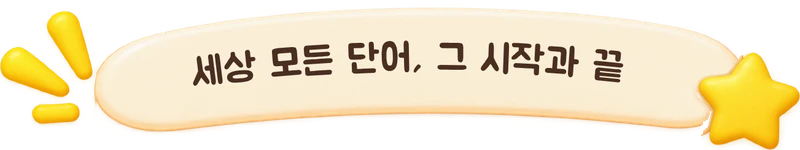
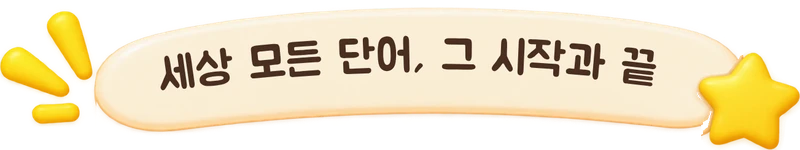
Korean home slogan: larger text
Claude-Session: https://claude.ai/code/session_0151HyQbunyEVHQk27fvCMAu

Changed region(s): [[0.1875, 0.24, 0.8438, 0.6133]]

diff --git a/index.html b/index.html
@@ -28,7 +28,7 @@ body{margin:0;font:14px system-ui,sans-serif}
 </style>
 <script>
 (function () {
-  var BUILD = '20261114220904';
+  var BUILD = '20261114222120';
   function check() {
     fetch('version.txt?t=' + Date.now(), { cache: 'no-store' }).then(function (r) { return r.ok ? r.text() : BUILD; }).then(function (v) {
       v = (v || '').trim();
@@ -393,7 +393,7 @@ p.res-tap{display:flex;align-items:center;justify-content:center;gap:4px;font-fa
 @media (prefers-reduced-motion: reduce){*{animation-duration:1ms!important;animation-iteration-count:1!important}}
 
 /* ===== 3D redesign (backup of the previous look: backup/game.template.pre-redesign.html, git branch backup-pre-redesign) ===== */
-#home{background:#8FD3FF url(img/bg.webp?v=20261114220904) center bottom/cover no-repeat;background-attachment:local}
+#home{background:#8FD3FF url(img/bg.webp?v=20261114222120) center bottom/cover no-repeat;background-attachment:local}
 /* glancing over the shoulder: the art looks right, flipped half the time to look left */
 .char.peek.pl img.cimg{scale:-1 1}
 /* never squeeze the art to its box (some hosts add img{max-width:100%}) */
@@ -402,7 +402,7 @@ p.res-tap{display:flex;align-items:center;justify-content:center;gap:4px;font-fa
 /* duo: both seen from behind, and the capybara's back art reads smaller than the red panda's */
 #game.duo .char.capy img.cimg{scale:1.04}
 #game.duo .char.capy.peek.pl img.cimg{scale:-1.04 1.04}
-.fghill{position:absolute;left:0;top:0;width:100%;height:100%;z-index:1;pointer-events:none;background:url(img/hillfg.webp?v=20261114220904) center bottom/100% auto no-repeat}
+.fghill{position:absolute;left:0;top:0;width:100%;height:100%;z-index:1;pointer-events:none;background:url(img/hillfg.webp?v=20261114222120) center bottom/100% auto no-repeat}
 #home>.home-top,#home>.title,#home>.field{position:relative;z-index:2}
 #home>.fghill{position:absolute;flex:none;z-index:1}
 /* the bottom of the picture melts into one grass colour, the same colour the phone paints below the page */
@@ -437,7 +437,7 @@ p.res-tap{display:flex;align-items:center;justify-content:center;gap:4px;font-fa
   #pcbg .cl::after{width:40%;height:120%;right:12%;bottom:25%}
   #pcbg .bk{position:absolute;width:var(--s);height:var(--s);margin:calc(var(--s) / -2) 0 0 calc(var(--s) / -2);opacity:var(--o);animation:pcbob var(--t) ease-in-out infinite alternate}
   #pcbg .bk em{position:absolute;inset:0;transform:rotate(var(--r))}
-  #pcbg .bk i{position:absolute;inset:0;background:url(img/block.webp?v=20261114220904) center/contain no-repeat}
+  #pcbg .bk i{position:absolute;inset:0;background:url(img/block.webp?v=20261114222120) center/contain no-repeat}
   /* the letter sits on the cube's front face (its centre is left of and below the picture's centre, and the face leans) */
   #pcbg .bk b{position:absolute;left:37.5%;top:57%;transform:translate(-50%,-50%) skewY(12deg);font:700 calc(var(--s) * .36)/1 'Fredoka','Jua',sans-serif;color:#7A5320}
   #pcbg .ground{position:absolute;left:0;right:0;bottom:0;height:22vh;background:linear-gradient(rgba(140,205,95,0),#8CCD5F 45%,#79BD4E)}
@@ -501,8 +501,8 @@ html.standalone .in-ctl{padding-bottom:10px}
 @media (prefers-reduced-motion:reduce){.in-logo,.in-tap,.in-ring{animation:none}}
 .logo-img{width:min(82vw,320px,calc((100dvh - 540px) * 1.3));min-width:190px;height:auto;filter:drop-shadow(0 6px 10px rgba(40,60,120,.25));animation:tileIn .6s cubic-bezier(.2,1.6,.4,1) both}
 /* the slogan: a picture of the arched banner (with its burst and star); the text stays for screen readers */
-.ribbon{display:block;margin:2px auto 0;width:min(272px,70vw);aspect-ratio:800/167;background:url(img/slogan_en.webp?v=20261114220904) center/contain no-repeat;font-size:0;color:transparent;border:0;padding:0;box-shadow:none;transform:none;white-space:nowrap}
-html[lang="ko"] .ribbon{background-image:url(img/slogan_ko.webp?v=20261114220904);aspect-ratio:800/150;width:min(262px,68vw)}
+.ribbon{display:block;margin:2px auto 0;width:min(272px,70vw);aspect-ratio:800/167;background:url(img/slogan_en.webp?v=20261114222120) center/contain no-repeat;font-size:0;color:transparent;border:0;padding:0;box-shadow:none;transform:none;white-space:nowrap}
+html[lang="ko"] .ribbon{background-image:url(img/slogan_ko.webp?v=20261114222120);aspect-ratio:800/150;width:min(262px,68vw)}
 .stage{--sh:min(215px,25dvh,calc((100vw - 8px) / 2.3));position:relative;z-index:0;flex:none;min-height:0;height:var(--sh);margin:-6px 0 -22px;align-items:flex-end;gap:0}
 .stage img.hcast{display:block;width:100%;height:auto;max-height:min(180px,19dvh);object-fit:contain;object-position:center bottom;animation:none}
 /* same height for both */
@@ -519,7 +519,7 @@ html[lang="ko"] .ribbon{background-image:url(img/slogan_ko.webp?v=20261114220904
 .copy{color:#fff;opacity:.9;text-shadow:0 1px 3px rgba(0,0,0,.35)}
 @media (max-height:700px){.mmain{padding-block:6px}.micon{width:40px;height:40px}.mtext b{font-size:20px}.field{gap:9px;padding-top:8px}}
 /* game arena: the painted meadow; the opponent stands on the grassy ledge */
-#arena{background:#8FD3FF url(img/bg.webp?v=20261114220904) center 66%/cover no-repeat}
+#arena{background:#8FD3FF url(img/bg.webp?v=20261114222120) center 66%/cover no-repeat}
 #arena .sun,#arena .cloud,#arena .ground,#arena .ground2,#arena .groundT,#arena .groundT2,#arena .hill{display:none}
 .char img.cimg{height:100%;width:auto;display:block;animation:breathe 2.6s ease-in-out infinite;transform-origin:50% 100%;filter:drop-shadow(0 6px 5px rgba(30,50,20,.3));-webkit-user-drag:none;user-select:none}
 #char1 img.cimg{animation-delay:-1.3s}
@@ -541,7 +541,7 @@ html[lang="ko"] .ribbon{background-image:url(img/slogan_ko.webp?v=20261114220904
 @keyframes drip{0%{transform:translateY(0);opacity:1}100%{transform:translateY(60px);opacity:0}}
 .tut-art.lobby img{height:100%;width:auto}
 /* letter tiles thrown on the first hit look like the toy block */
-.fly{background:url(img/block.webp?v=20261114220904) center/contain no-repeat;border:0;width:38px;height:38px;margin:-19px 0 0 -19px;box-shadow:none;color:#6B4A1E;padding:5px 9px 0 0;box-sizing:border-box} /* letter on the cube's front face, not the picture's centre */
+.fly{background:url(img/block.webp?v=20261114222120) center/contain no-repeat;border:0;width:38px;height:38px;margin:-19px 0 0 -19px;box-shadow:none;color:#6B4A1E;padding:5px 9px 0 0;box-sizing:border-box} /* letter on the cube's front face, not the picture's centre */
 
 /* ===== game + popups dressed like the home screen (keyboard keeps its look) ===== */
 /* name cards, clock and top buttons: the home menu's glossy pills */
@@ -730,7 +730,7 @@ html.standalone #game .panel{padding-bottom:10px}
   <section id="home" class="screen">
     <div class="fghill" id="homeHill" aria-hidden="true"></div>
     <div class="homefade" aria-hidden="true"></div>
-    <div class="deco" aria-hidden="true"><img class="dtile" src="img/tileA.webp?v=20261114220904" alt="" style="left:3%;top:31%;--r:-8deg"><img class="dtile" src="img/tileQ.webp?v=20261114220904" alt="" style="right:3%;top:29%;--r:9deg;animation-delay:-1.2s"></div>
+    <div class="deco" aria-hidden="true"><img class="dtile" src="img/tileA.webp?v=20261114222120" alt="" style="left:3%;top:31%;--r:-8deg"><img class="dtile" src="img/tileQ.webp?v=20261114222120" alt="" style="right:3%;top:29%;--r:9deg;animation-delay:-1.2s"></div>
     <div class="home-top gut">
       <div class="lt-grp"><button class="pill" id="langBtn" type="button" hidden></button><button class="pill nick-pill" id="nickBtn" type="button"></button></div>
       <div class="rt">
@@ -741,7 +741,7 @@ html.standalone #game .panel{padding-bottom:10px}
       </div>
     </div>
     <h1 class="title gut" aria-label="First n Last">
-      <img class="logo-img" src="img/logo.webp?v=20261114220904" alt="" draggable="false">
+      <img class="logo-img" src="img/logo.webp?v=20261114222120" alt="" draggable="false">
       <span class="ribbon" data-t="tagline"></span>
     </h1>
     <div class="stage" id="homeCast"><div class="ev-banner" id="evBanner" hidden></div></div>
@@ -766,7 +766,7 @@ html.standalone #game .panel{padding-bottom:10px}
       <div class="ground"></div><div class="ground2"></div><div class="groundT"></div><div class="groundT2"></div><div class="hill"></div>
       <div class="card" id="card1"><div class="nm" id="name1"></div><div class="hearts" id="hearts1"></div></div>
       <div class="hud" id="hud"><div class="clkwrap" id="clkW"><div class="clock" id="clock">2:00</div><div class="hint-cd" id="hintCd"></div></div></div>
-      <img class="plat" src="img/plat.webp?v=20261114220904" alt="" draggable="false"><div class="char" id="char1"></div>
+      <img class="plat" src="img/plat.webp?v=20261114222120" alt="" draggable="false"><div class="char" id="char1"></div>
       <div class="mid">
         <div class="side"><div class="tile tS">?</div><span data-t="startLbl"></span></div>
         <div id="center"></div>
@@ -794,10 +794,10 @@ html.standalone #game .panel{padding-bottom:10px}
   <div class="overlay" id="ov" hidden><div class="sheet" id="sheet"></div></div>
 </div>
 <div id="intro" hidden>
-  <div class="in-splash" id="inSplash"><img class="in-logo" src="img/logo.webp?v=20261114220904" alt="First n Last" draggable="false">
+  <div class="in-splash" id="inSplash"><img class="in-logo" src="img/logo.webp?v=20261114222120" alt="First n Last" draggable="false">
     <div class="in-tap" id="inTap"><span class="in-ring" aria-hidden="true"></span><span class="in-dot" aria-hidden="true"></span><b id="inTapTxt"></b></div></div>
   <div class="in-fill in-ft" id="inFt"></div><div class="in-fill in-fb" id="inFb"></div>
-  <video id="inVid" playsinline webkit-playsinline preload="none" data-src="img/intro.mp4?v=20261114220904"></video>
+  <video id="inVid" playsinline webkit-playsinline preload="none" data-src="img/intro.mp4?v=20261114222120"></video>
   <div class="in-shade"></div>
   <div class="in-ctl" id="inCtl" hidden>
     <button type="button" class="in-btn in-snd" id="inSnd"></button>
@@ -1089,7 +1089,7 @@ const CHEV = '<svg viewBox="0 0 16 16" fill="none" stroke="currentColor" stroke-
 /* ---------- 3D character art (img/*.webp) ----------
    Each animal has 8 poses, seen from the front (f) and from behind (b):
    1 relaxed, 2 joyful jump, 3 puzzled scratch, 4 flinch, 5 one bandage, 6 two bandages, 7 knocked out, 8 wind-up throw */
-const IMGV = '20261114220904';
+const IMGV = '20261114222120';
 const img = n => `img/${n}.webp?v=${IMGV}`;
 /* PC scene beside the game (shown by CSS only on wide screens). The note follows the computer's language. */
 (function pcScene() {

diff --git a/sw.js b/sw.js
@@ -4,10 +4,10 @@
    - Pictures (their addresses carry the build number): saved on install, served from the phone.
    - Fonts and the Firebase scripts: saved the first time they load.
    - Never touched: version.txt (the update check), the intro film, the admin page, Firebase live data. */
-const BUILD = '20261114220904';
+const BUILD = '20261114222120';
 const CACHE = 'fnl-' + BUILD, EXT = 'fnl-ext';
 const SCOPE = new URL('./', self.location).href;
-const CORE = ["./", "manifest.webmanifest", "icon-192.png", "icon-512.png", "apple-touch-icon.png", "img/balloon.webp?v=20261114220904", "img/band.webp?v=20261114220904", "img/bg.webp?v=20261114220904", "img/block.webp?v=20261114220904", "img/capy_b1.webp?v=20261114220904", "img/capy_b2.webp?v=20261114220904", "img/capy_b3.webp?v=20261114220904", "img/capy_b4.webp?v=20261114220904", "img/capy_b5.webp?v=20261114220904", "img/capy_b6.webp?v=20261114220904", "img/capy_b7.webp?v=20261114220904", "img/capy_b8.webp?v=20261114220904", "img/capy_f1.webp?v=20261114220904", "img/capy_f2.webp?v=20261114220904", "img/capy_f3.webp?v=20261114220904", "img/capy_f4.webp?v=20261114220904", "img/capy_f5.webp?v=20261114220904", "img/capy_f6.webp?v=20261114220904", "img/capy_f7.webp?v=20261114220904", "img/capy_f8.webp?v=20261114220904", "img/capy_p0.webp?v=20261114220904", "img/capy_p1.webp?v=20261114220904", "img/capy_p2.webp?v=20261114220904", "img/capy_s.webp?v=20261114220904", "img/cast_capy.webp?v=20261114220904", "img/cast_capy34.webp?v=20261114220904", "img/cast_capy34_pc.webp?v=20261114220904", "img/cast_capy_up.webp?v=20261114220904", "img/cast_panda.webp?v=20261114220904", "img/cast_panda34.webp?v=20261114220904", "img/hammer.webp?v=20261114220904", "img/hillfg.webp?v=20261114220904", "img/homecast.webp?v=20261114220904", "img/logo.webp?v=20261114220904", "img/panda_b1.webp?v=20261114220904", "img/panda_b2.webp?v=20261114220904", "img/panda_b3.webp?v=20261114220904", "img/panda_b4.webp?v=20261114220904", "img/panda_b5.webp?v=20261114220904", "img/panda_b6.webp?v=20261114220904", "img/panda_b7.webp?v=20261114220904", "img/panda_b8.webp?v=20261114220904", "img/panda_f1.webp?v=20261114220904", "img/panda_f2.webp?v=20261114220904", "img/panda_f3.webp?v=20261114220904", "img/panda_f4.webp?v=20261114220904", "img/panda_f5.webp?v=20261114220904", "img/panda_f6.webp?v=20261114220904", "img/panda_f7.webp?v=20261114220904", "img/panda_f8.webp?v=20261114220904", "img/panda_p0.webp?v=20261114220904", "img/panda_p1.webp?v=20261114220904", "img/panda_p2.webp?v=20261114220904", "img/panda_s.webp?v=20261114220904", "img/plat.webp?v=20261114220904", "img/slogan_en.webp?v=20261114220904", "img/slogan_ko.webp?v=20261114220904", "img/tileA.webp?v=20261114220904", "img/tileQ.webp?v=20261114220904", "img/vs.webp?v=20261114220904"];
+const CORE = ["./", "manifest.webmanifest", "icon-192.png", "icon-512.png", "apple-touch-icon.png", "img/balloon.webp?v=20261114222120", "img/band.webp?v=20261114222120", "img/bg.webp?v=20261114222120", "img/block.webp?v=20261114222120", "img/capy_b1.webp?v=20261114222120", "img/capy_b2.webp?v=20261114222120", "img/capy_b3.webp?v=20261114222120", "img/capy_b4.webp?v=20261114222120", "img/capy_b5.webp?v=20261114222120", "img/capy_b6.webp?v=20261114222120", "img/capy_b7.webp?v=20261114222120", "img/capy_b8.webp?v=20261114222120", "img/capy_f1.webp?v=20261114222120", "img/capy_f2.webp?v=20261114222120", "img/capy_f3.webp?v=20261114222120", "img/capy_f4.webp?v=20261114222120", "img/capy_f5.webp?v=20261114222120", "img/capy_f6.webp?v=20261114222120", "img/capy_f7.webp?v=20261114222120", "img/capy_f8.webp?v=20261114222120", "img/capy_p0.webp?v=20261114222120", "img/capy_p1.webp?v=20261114222120", "img/capy_p2.webp?v=20261114222120", "img/capy_s.webp?v=20261114222120", "img/cast_capy.webp?v=20261114222120", "img/cast_capy34.webp?v=20261114222120", "img/cast_capy34_pc.webp?v=20261114222120", "img/cast_capy_up.webp?v=20261114222120", "img/cast_panda.webp?v=20261114222120", "img/cast_panda34.webp?v=20261114222120", "img/hammer.webp?v=20261114222120", "img/hillfg.webp?v=20261114222120", "img/homecast.webp?v=20261114222120", "img/logo.webp?v=20261114222120", "img/panda_b1.webp?v=20261114222120", "img/panda_b2.webp?v=20261114222120", "img/panda_b3.webp?v=20261114222120", "img/panda_b4.webp?v=20261114222120", "img/panda_b5.webp?v=20261114222120", "img/panda_b6.webp?v=20261114222120", "img/panda_b7.webp?v=20261114222120", "img/panda_b8.webp?v=20261114222120", "img/panda_f1.webp?v=20261114222120", "img/panda_f2.webp?v=20261114222120", "img/panda_f3.webp?v=20261114222120", "img/panda_f4.webp?v=20261114222120", "img/panda_f5.webp?v=20261114222120", "img/panda_f6.webp?v=20261114222120", "img/panda_f7.webp?v=20261114222120", "img/panda_f8.webp?v=20261114222120", "img/panda_p0.webp?v=20261114222120", "img/panda_p1.webp?v=20261114222120", "img/panda_p2.webp?v=20261114222120", "img/panda_s.webp?v=20261114222120", "img/plat.webp?v=20261114222120", "img/slogan_en.webp?v=20261114222120", "img/slogan_ko.webp?v=20261114222120", "img/tileA.webp?v=20261114222120", "img/tileQ.webp?v=20261114222120", "img/vs.webp?v=20261114222120"];
 
 self.addEventListener('install', e => {
   self.skipWaiting();
